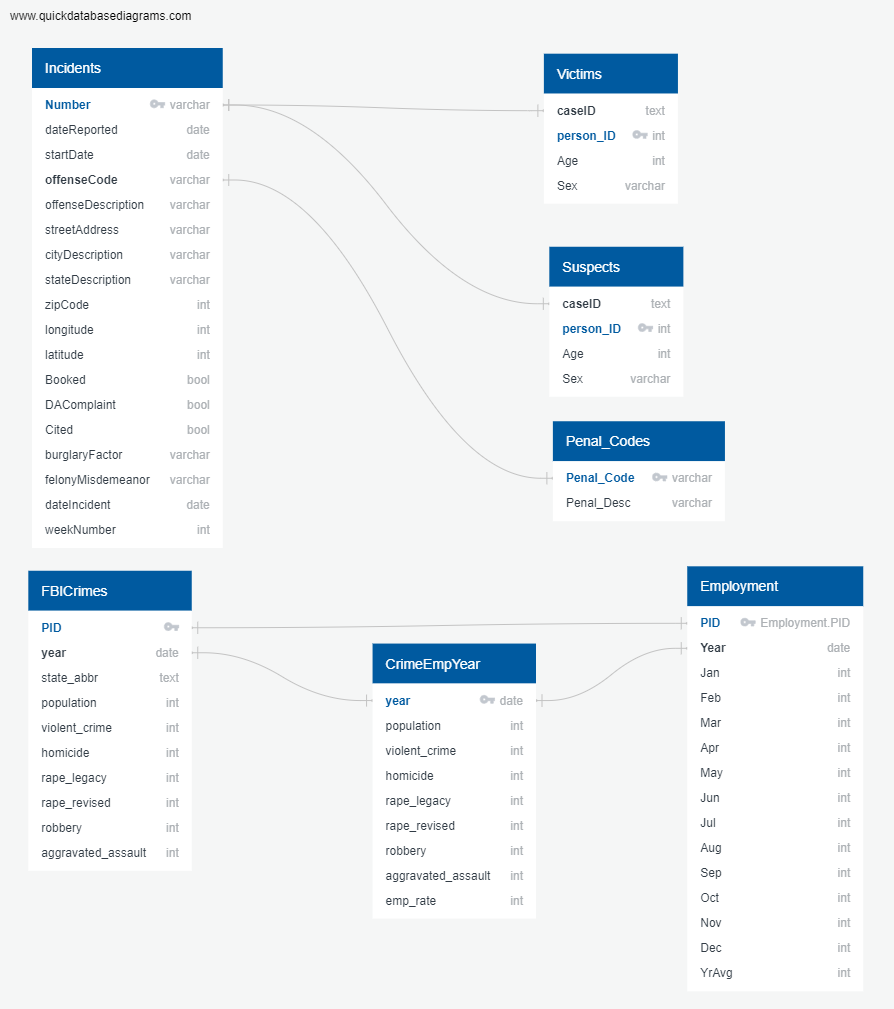
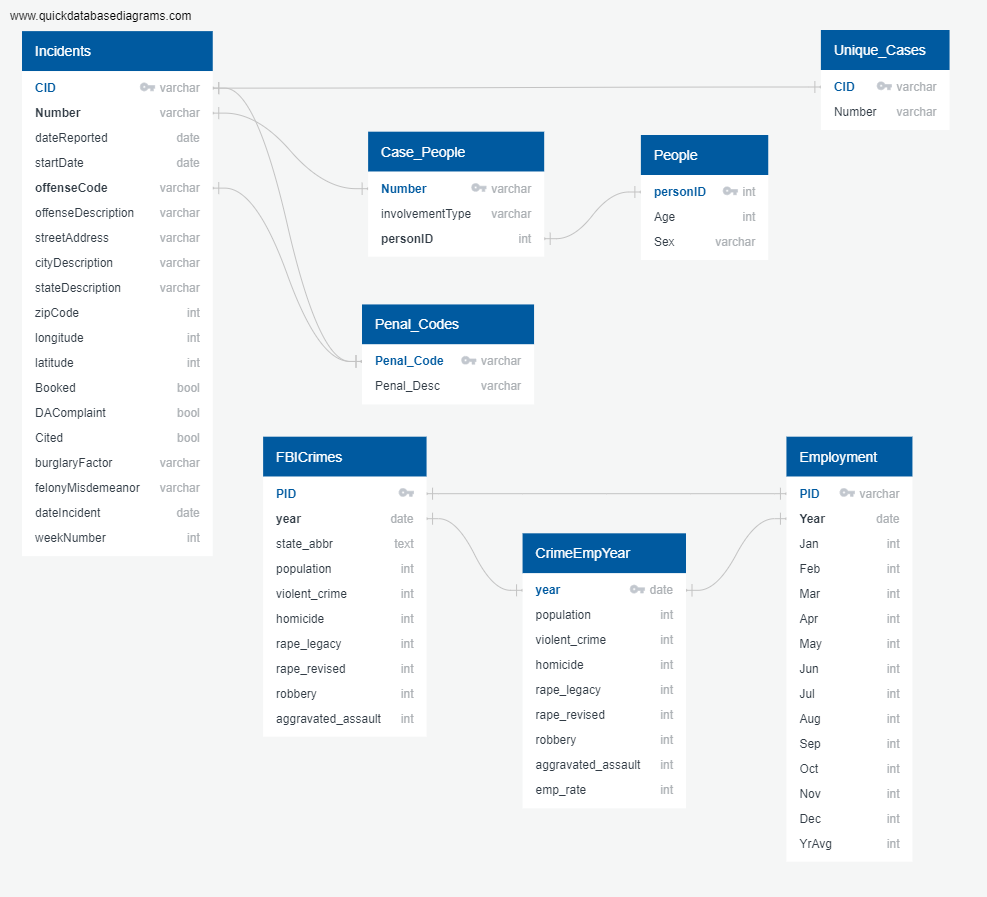
Updated ERD and Schema to account for new people tables

diff --git a/Database/CrimeCoronaDatabaseSchema.md b/Database/CrimeCoronaDatabaseSchema.md
@@ -2,8 +2,14 @@
 
 ##  Tables
 
+- **Unique_Cases**  List of incidents in Incidents table reduced to two fields: unique key and case number
+ - **CID** - text. Primary key. Unique. E.g. "MP19037614-AC2345.b"
+  - **Number** - text.  E.g. "MP19037614"
+
+
 - **Incidents**  Table of 1,789 reported incidents from Dec 31, 2019 to April 14, 2020.  The twenty six fields are mostly text, including three boolean fields, two date fields, and two location integer fields.
-  - **Number** - text. Primary key. Unique. E.g. "MP19037614"
+  - **CID** - text. Primary key. Unique. E.g. ""MP19037614-AC2345.b"
+  - **Number** - text.  E.g. "MP19037614"
   - **dateReported** - datetime.  E.g. "Dec 31, 2019,  7:10:57 PM"
   - **startDate** - datetime.  E.g. "Dec 31, 2019,  7:00:00 PM "
   - **offenseCode**** -  text.  E.g. "245 (A)(1) PC"
@@ -22,20 +28,19 @@
   - **dateIncident** - date. E.g. "12/31/2019"
   - **weekNumber** - integer. E.g. "13"
   
-- **Suspects**  
+- **People**  
   
-  - **caseID** - text. Relates to Number field in Incidents table. E.g. MP20010240"
   - **person_ID** - numeric. Primary key.  Unique. E.g. "3877"
   - **Age** - numeric.  E.g. "23"
-  - ***Sex**** - text.  E.g. "MALE" or "FEMALE"
+  - **Sex** - text.  E.g. "MALE" or "FEMALE"
   
-- **Victims**  
+**Case_People**  
   
-  - **caseID** - text. Relates to Number field in Incidents table. E.g. MP20010240"
-  - **person_ID** - numeric. Primary key.  Unique. E.g. "3877"
-  - **Age** - numeric.  E.g. "23"
-  - ***Sex**** - text.  E.g. "MALE" or "FEMALE"
-  
+  - **Number** - numeric. E.g. "MP38772342"
+  - **involvementType** - text.  E.g. "VICTIME"
+  - **personID** - numberic.  E.g. "1437"
+ 
+
 - **Penal Codes****  
 
   - **Penal_Code** - text. Primary key.  Unique. Relates to offense code field in Incidents table. E.g. "460(B) PC"
